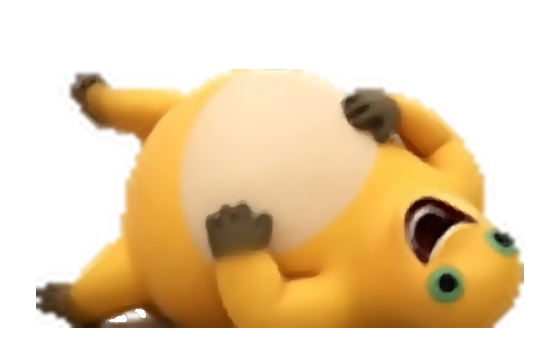
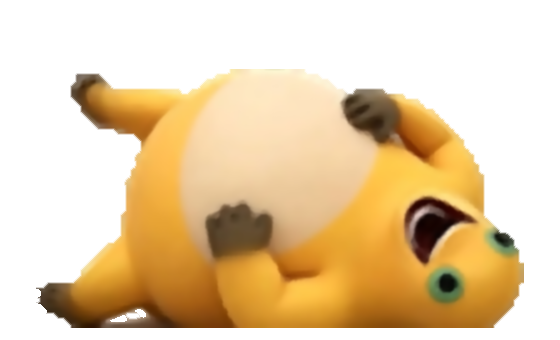
smooth lie silhouette with distance-field alpha

diff --git a/src/styles/pet.css b/src/styles/pet.css
@@ -227,6 +227,7 @@
   height: auto;
   width: 92%;
   max-height: 56vh;
+  filter: drop-shadow(0 12px 18px rgba(0, 0, 0, 0.3));
 }
 
 .pet-shadow {

diff --git a/DEVELOPMENT.md b/DEVELOPMENT.md
@@ -294,5 +294,5 @@ cargo check --manifest-path src-tauri/Cargo.toml
 - 2026-11-17 expand the classic idle from the three-frame preview to all six Nailong `待机` frames (`05 → 00 → 01 → 02 → 03 → 04`, 600 ms/frame) so the standing loop blinks and sways instead of repeating three poses.
 - 2026-11-17 add the adult `lie` (躺平) action: remove the light ground-shadow line from the two source frames, compose a wide 280×170 canvas with a width-based CSS rule, use 2 frames at 800 ms and a 2600 ms flow; classic uses the wide frames and ASCII aliases to crouch.
 - 2026-11-17 add the adult `wait` and `review` actions from the Codex pet's 6-frame waiting/review APNGs, scaled to 180×195 and bottom-aligned at y=204; insert them after `think`, use 150 ms/frame and 1800 ms flows, and alias them to idle in both ASCII sets.
-- 2026-11-17 rebuild the lie frames at 560×340 with a local OpenCV 5 pipeline: alpha crop, ground-line cleanup, transparent-area inpaint, FSRCNN x4 super-resolution, bilateral filtering, Lanczos alpha upscale + Gaussian anti-aliasing, and a small bottom connected-component cleanup. This removes the remaining jaggies and white ground blob while preserving the belly and eye highlights.
+- 2026-11-17 rebuild the lie frames at 560×340 with a local OpenCV 5 pipeline: alpha crop, ground-line cleanup, transparent-area inpaint, FSRCNN x4 super-resolution, bilateral filtering, a largest-component signed-distance alpha with a 4 px feather, and a small bottom connected-component cleanup. This removes the silhouette jaggies and white ground blob while preserving the belly, eye highlights and natural contact shadow; the lie image also gets a softer CSS drop shadow.
 - 2026-11-16 bump to 0.2.1 and replace `docs/settings.png` with the 赛博奶蛙 settings screenshot (原色模式/量子模式, no sleep copy, version 0.2.1).

diff --git a/design-qa.md b/design-qa.md
@@ -313,9 +313,9 @@
 ## 2026-11-17 — Phase 38：CV 超分修复躺平锯齿
 
 - 用户反馈躺平边缘仍有锯齿/白线。源图只有 98×57，直接 Lanczos 放大到 280×170 会保留硬边。
-- 新增 `_qa/cv-lie-sr.py`，用本地 OpenCV 5 venv（`_qa/cv-venv`，不改全局）：裁到 alpha、去掉底部灰线、对透明区做 `cv2.inpaint`，再用 FSRCNN x4 超分、双边滤波保边，alpha 用 Lanczos + 高斯模糊做抗锯齿。
-- 输出改为 560×340（2×）画布，底部 y=328（12px 底边距），浏览器显示时再缩小，边缘更平滑；最后的连通域清理只删除底部面积 <200、y>280 的小亮块，保留肚皮和眼睛高光。
-- 预览对比 `_qa/art/lie-cv-compare.png`：旧帧底部白线和台阶状边缘明显，新帧平滑且白斑消失。`pnpm build` 通过。
+- 新增 `_qa/cv-lie-sr.py`，用本地 OpenCV 5 venv（`_qa/cv-venv`，不改全局）：裁到 alpha、去掉底部灰线、对透明区做 `cv2.inpaint`，再用 FSRCNN x4 超分、双边滤波保边；alpha 取最大连通域后用有符号距离场重建，4px 羽化，缩到显示尺寸后边缘平滑。
+- 输出改为 560×340（2×）画布，底部 y=328（12px 底边距），浏览器显示时再缩小，边缘更平滑；最后的连通域清理只删除底部面积 <200、y>280 的小亮块，保留肚皮、眼睛高光和自然的接触阴影。
+- 预览对比 `_qa/art/lie-display-compare.png`（按实际 231×140 显示尺寸）：旧帧底部白线和台阶状边缘明显，新帧白斑消失、轮廓平滑；剩下的一条很细暗线是贴地接触阴影，不是白线。`pnpm build` 通过。
 
 ## 待人工确认
 
